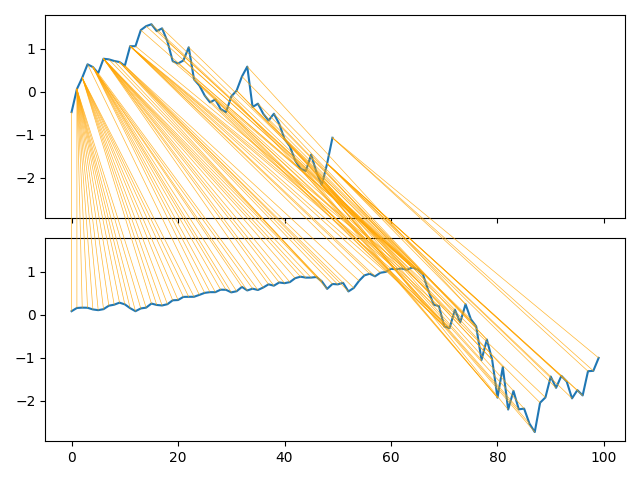
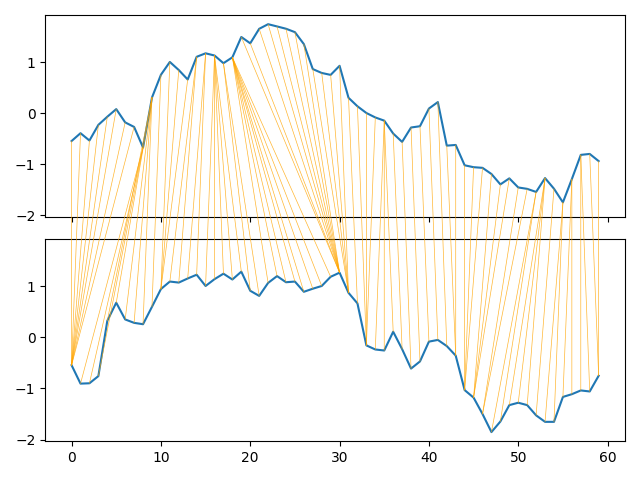
changes

diff --git a/dashboard.py b/dashboard.py
@@ -1,5 +1,6 @@
 #%%
 from copy import deepcopy
+from sqlite3 import Row
 import streamlit as st
 import pandas as pd
 import numpy as np
@@ -7,14 +8,28 @@ import datetime
 import dateutil.relativedelta
 import io
 import yfinance as yf
-from dtaidistance import dtw
+from dtaidistance import dtw,ed
 from dtaidistance import dtw_visualisation as dtwvis
 from scipy.stats import zscore
-import functions as f
+from sklearn.preprocessing import MinMaxScaler
+min_max_scaler = MinMaxScaler()
 import plotly.graph_objects as go
 import plotly.io as pio
 pio.renderers.default='browser'
 from plotly.subplots import make_subplots
+from datetime import timedelta
+from PIL import Image
+def split(df,len_chunk,step):
+    start = 0
+    end = start + len_chunk
+    dfs = []
+
+    while end<len(df):
+        dfs.append(df.iloc[start:end,:].copy(deep=True))
+        start += step
+        end = start + len_chunk
+    dfs.append(df.tail(len_chunk).copy(deep=True))
+    return dfs
 #%%
 
 #########
@@ -22,10 +37,6 @@ from plotly.subplots import make_subplots
 #########
 title = "Past == Future"
 pio.templates.default = "plotly_white"
-
-date_picker_lookback_days = 0
-from_date = datetime.date.today() - dateutil.relativedelta.relativedelta(days=date_picker_lookback_days+1)
-to_date = datetime.date.today() - dateutil.relativedelta.relativedelta(days=1)
 
 #########
 # Layout
@@ -40,7 +51,9 @@ st.title(title)
 with st.sidebar:
     with st.form("filters"):
         input_ticker = st.text_input("Ticker",'SPY')
-        lookback = st.st.slider('How many days back?', 7, 60, 14)
+        lookback = st.slider('How many days back?', 7, 60, 14)
+        normalizer = st.radio("Normalizer",('Z-Score','Min-Max'))
+        dist_measure = st.radio("Distance Measure",('Dynamic Time Warping','Euclidean Distance'))
         submitted = st.form_submit_button("Load data")
 
 #############
@@ -50,69 +63,88 @@ with st.sidebar:
 def load_from_dwh(input_ticker):
     df = yf.Ticker(input_ticker).history(period="max")
     return df
-#%%
+# input_ticker = 'SPY'
+# lookback = 15
+# normalizer = 'Z-Score'
+# dist_measure ='Dynamic Time Warping'
+
+
 
 df = load_from_dwh(input_ticker)
-dfs = f.split(df.iloc[:-lookback,:], len_chunk=lookback, step=2)
+df.index = df.index.date
+df = df.reset_index()
+
+dfs = split(df.iloc[:-lookback,:], len_chunk=lookback, step=2)
 dists = []
-seq1 = zscore(df.tail(lookback)['Close'].values)
+
+if normalizer == 'Z-Score':
+    nmz = zscore
+else:
+    nmz = min_max_scaler.fit_transform
+
+if dist_measure == 'Dynamic Time Warping':    
+    dm = dtw
+else:
+    dm = ed
+
+seq1 = nmz(df.tail(lookback)['Close'].values.reshape(-1, 1))
 
 for x in range(len(dfs)):
-    seq2 = zscore(dfs[x]['Close'].values)
-    distance = dtw.distance(seq1,seq2)
+
+    seq2 = nmz((dfs[x]['Close'].values.reshape(-1, 1)))
+    distance = dm.distance(seq1,seq2)
+
     dists.append(distance)
 
-np.argmin(dists)
-#%%
+
+df_hist = dfs[np.argmin(dists)]
+current =  df.tail(3*lookback)
+current = current.reindex(pd.RangeIndex(current.index[0],current.index[-1]+2*lookback))
+
+hist_start = df_hist.index[0] - (3*lookback-lookback)
+hist_end = df_hist.index[-1] + 2*lookback
+hist = df[hist_start:hist_end]
 
 fig = make_subplots(rows=2)
 
-seq2 = zscore(dfs[np.argmin(dists)]['Close'].values)
-current = dfs[np.argmin(dists)]
-go.Ohlc(x=df['Date'],
-                open=df['AAPL.Open'],
-                high=df['AAPL.High'],
-                low=df['AAPL.Low'],
-                close=df['AAPL.Close'])
-fig.add_trace(go.Scatter(x=dfs[np.argmin(dists)].index, y=seq1))
-fig.add_trace(go.Scatter(x=dfs[np.argmin(dists)].index, y=seq2))
+fig.add_trace(go.Candlestick(x=current.index,
+                open=current['Open'],
+                high=current['High'],
+                low=current['Low'],
+                close=current['Close']),row=1,col=1)
+fig.update(layout_xaxis1_rangeslider_visible=False)
 
-fig.show()
-#%%
+fig.add_trace(go.Candlestick(x=hist.index,
+                open=hist['Open'],
+                high=hist['High'],
+                low=hist['Low'],
+                close=hist['Close']),row=2,col=1)
+fig.update(layout_xaxis2_rangeslider_visible=False)
+
+fig.add_vline(x=df.tail(lookback).index[0], line_width=3, line_dash="dash", line_color="green",row=1,col=1)
+fig.add_vline(x=df.tail(lookback).index[-1], line_width=3, line_dash="dash", line_color="green",row=1,col=1)
+
+fig.add_vline(x=df_hist.index[0], line_width=3, line_dash="dash", line_color="green",row=2,col=1)
+fig.add_vline(x=df_hist.index[-1], line_width=3, line_dash="dash", line_color="green",row=2,col=1)
+fig.update_layout(
+    xaxis1 = dict(tickmode = 'array',
+        tickvals = [df.tail(lookback).index[0], df.tail(lookback).index[-1]],
+        ticktext = [df.tail(lookback).head(1)['index'].values[0].strftime("%m/%d/%Y"),df.tail(lookback).tail(1)['index'].values[0].strftime("%m/%d/%Y")]
+    ),
+    xaxis2 = dict(tickmode = 'array',
+        tickvals = [df_hist.index[0],df_hist.index[-1]],
+        ticktext = [df_hist.head(1)['index'].values[0].strftime("%m/%d/%Y"),df_hist.tail(1)['index'].values[0].strftime("%m/%d/%Y")]
+    ))
+fig.update_layout(height=800)
+
+st.plotly_chart(fig,use_container_width=True,height=800)
+
+path = dtw.warping_path(seq1, nmz(df_hist['Close'].values.reshape(-1, 1))[:,0])
+
+dtwvis.plot_warping(seq1[:,0], nmz(df_hist['Close'].values.reshape(-1, 1))[:,0], path, filename="warp.png")
 
 
-path = dtw.warping_path(seq1, seq2)
-dtwvis.plot_warping(seq1, seq2, path, filename="warp.png")
-#%%
-# Result set is not empty
-if len(df_input) > 0:
-    st.subheader("Subheader")
-    df_input 
-    st.markdown('---')
+st.header('Time warped comparison of closing prices')
+st.image(Image.open('warp.png'),use_column_width=True)
 
-    ###############
-    # Data download
-    ###############
-    st.subheader("Data download")
-    buffer = io.BytesIO()
-    with st.spinner('Generating download file'):
-        with pd.ExcelWriter(buffer, engine='xlsxwriter') as writer:
-            df_input.to_excel(writer, sheet_name='Raw')
-            writer.save()
-            st.download_button(
-                label='Download data as Excel',
-                data=buffer,
-                file_name="streamlit_download.xlsx",
-                mime="application/vnd.ms-excel"
-            )
-else:
-    # Result set is empty
-    st.warning('No data for selected filters.')
-
-fig = go.Figure(data=go.Ohlc(x=df['Date'],
-                open=df['AAPL.Open'],
-                high=df['AAPL.High'],
-                low=df['AAPL.Low'],
-                close=df['AAPL.Close']))
-fig.update(layout_xaxis_rangeslider_visible=False)
-fig.show()
+# %%

diff --git a/main.py b/main.py
@@ -1,0 +1,12 @@
+#%%
+import yfinance as yf
+yf.Ticker('SPY').history(period="max")
+#%%
+
+from dtaidistance import dtw
+from dtaidistance import dtw_visualisation as dtwvis
+import numpy as np
+s1 = np.array([0., 0, 1, 2, 1, 0, 1, 0, 0, 2, 1, 0, 0])
+s2 = np.array([0., 1, 2, 3, 1, 0, 0, 0, 2, 1, 0, 0, 0])
+path = dtw.warping_path(s1, s2)
+dtwvis.plot_warping(s1, s2, path, filename="warp.png")
